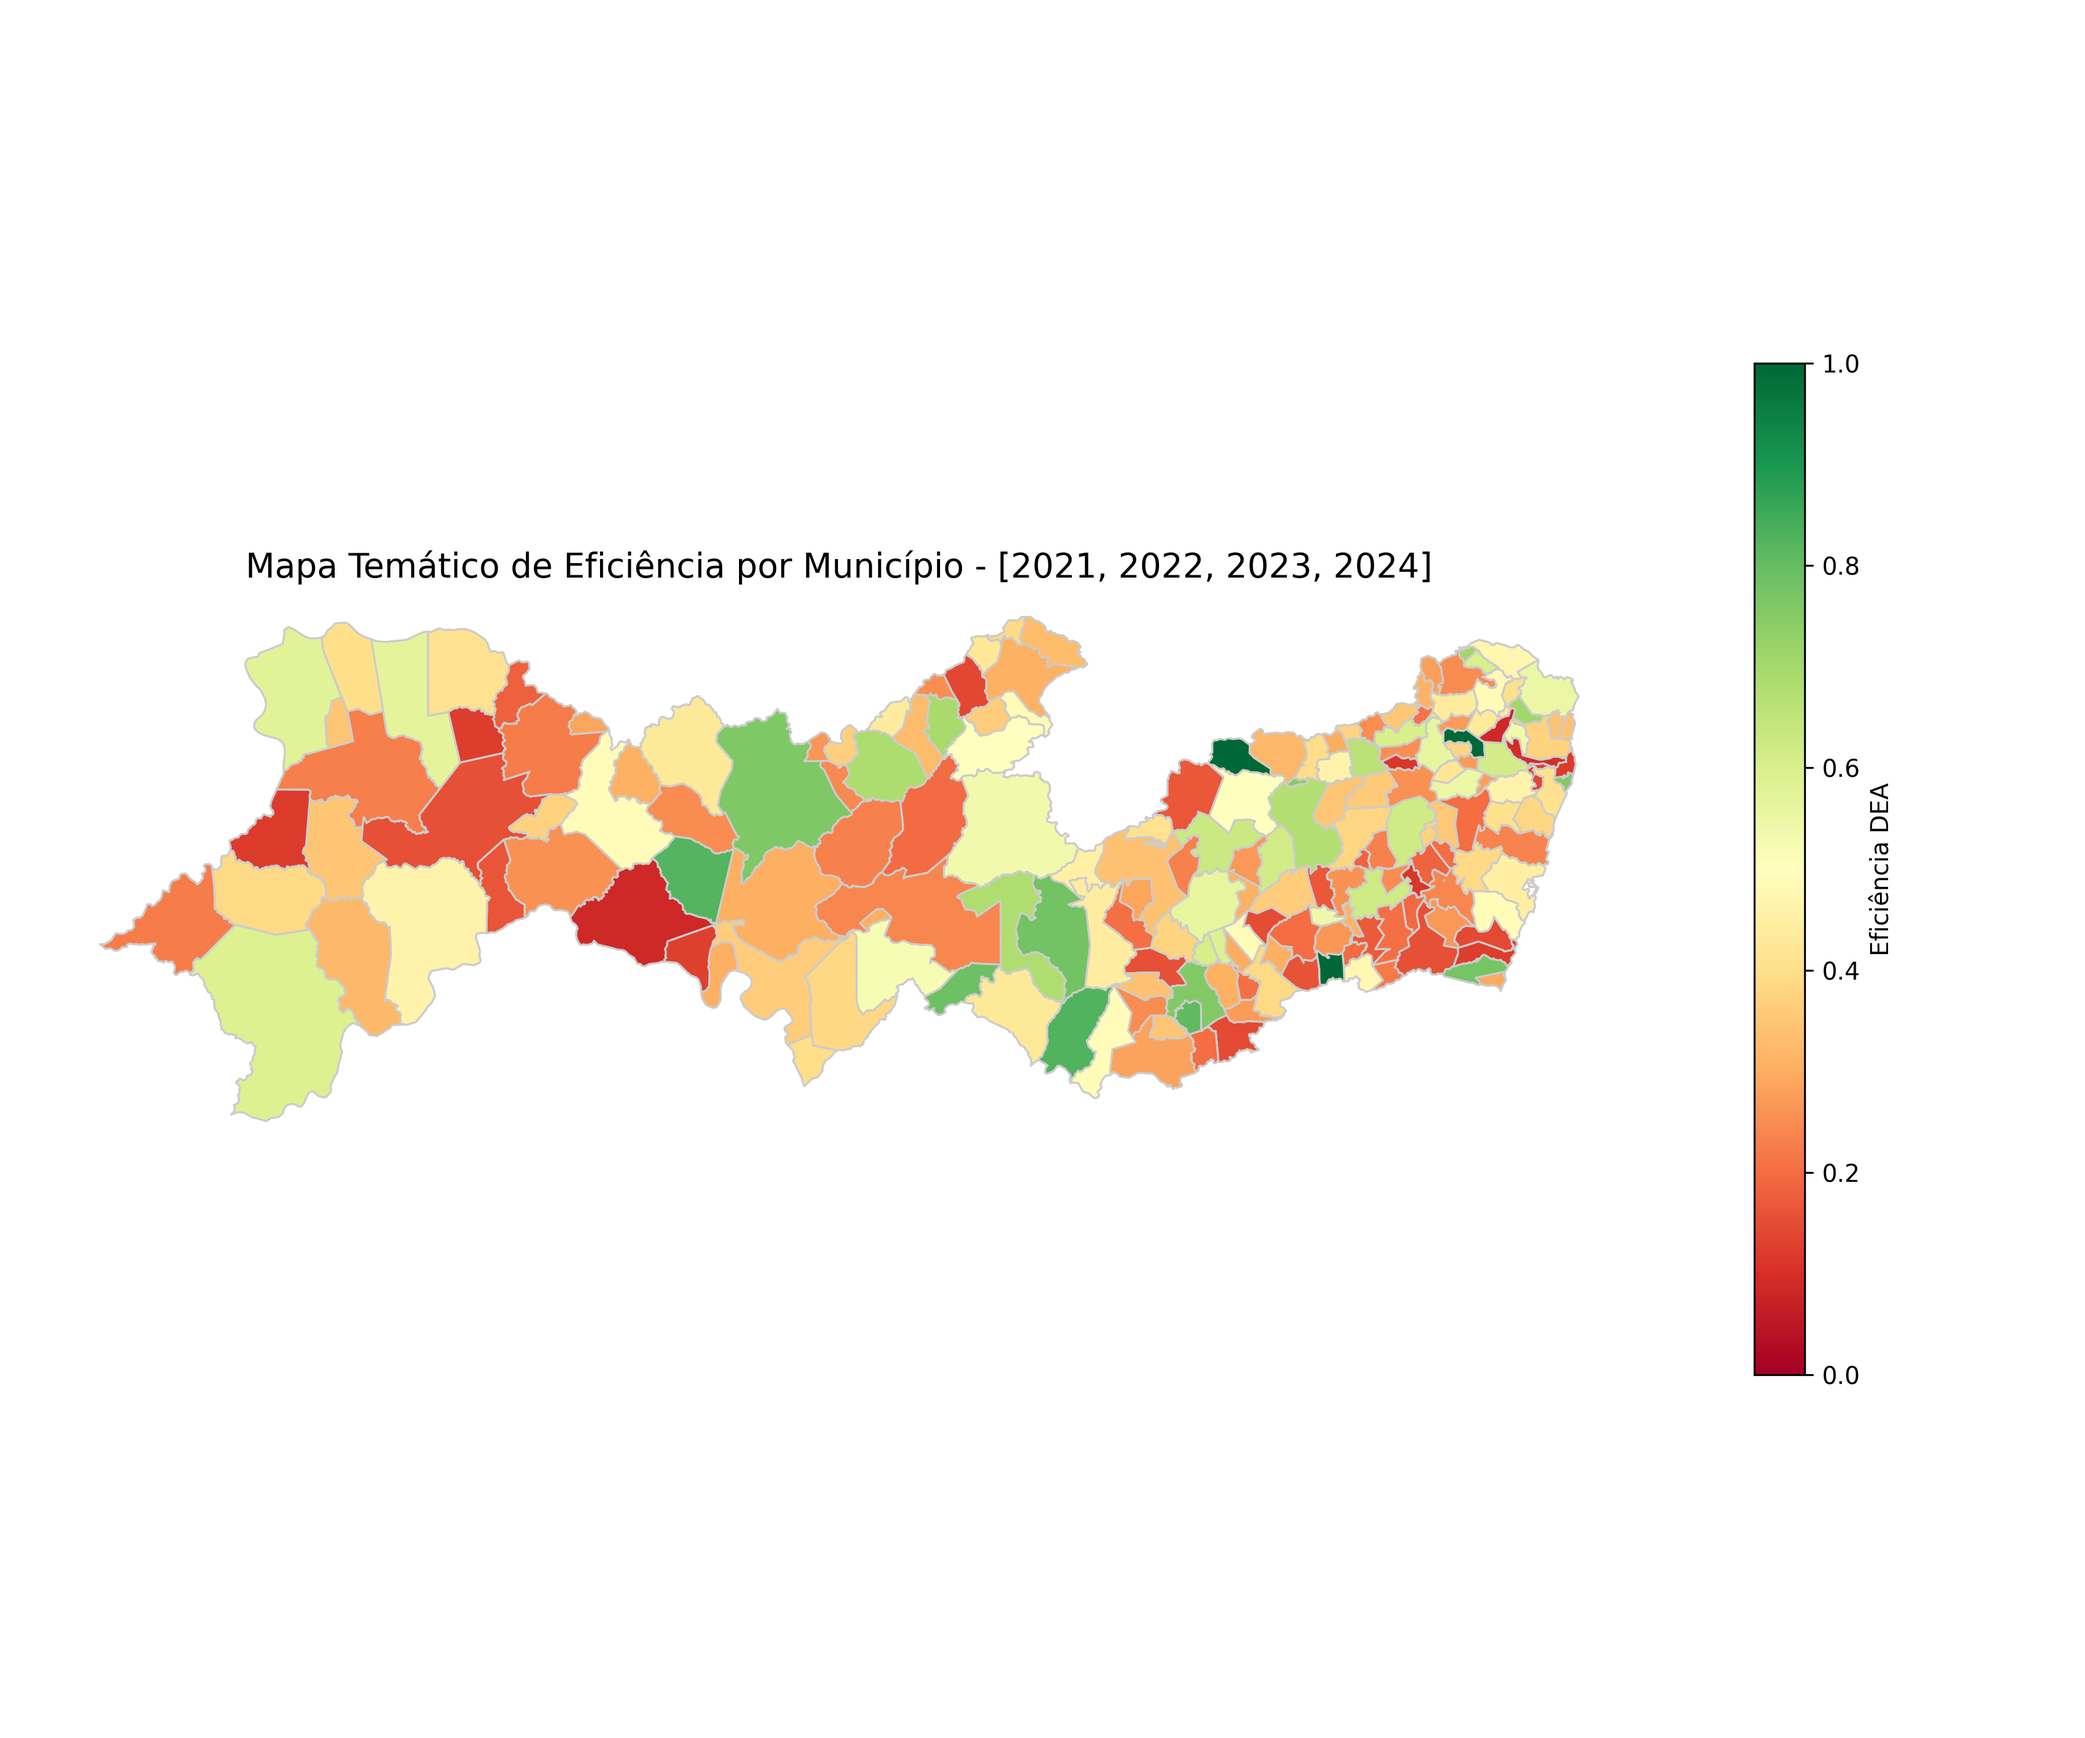
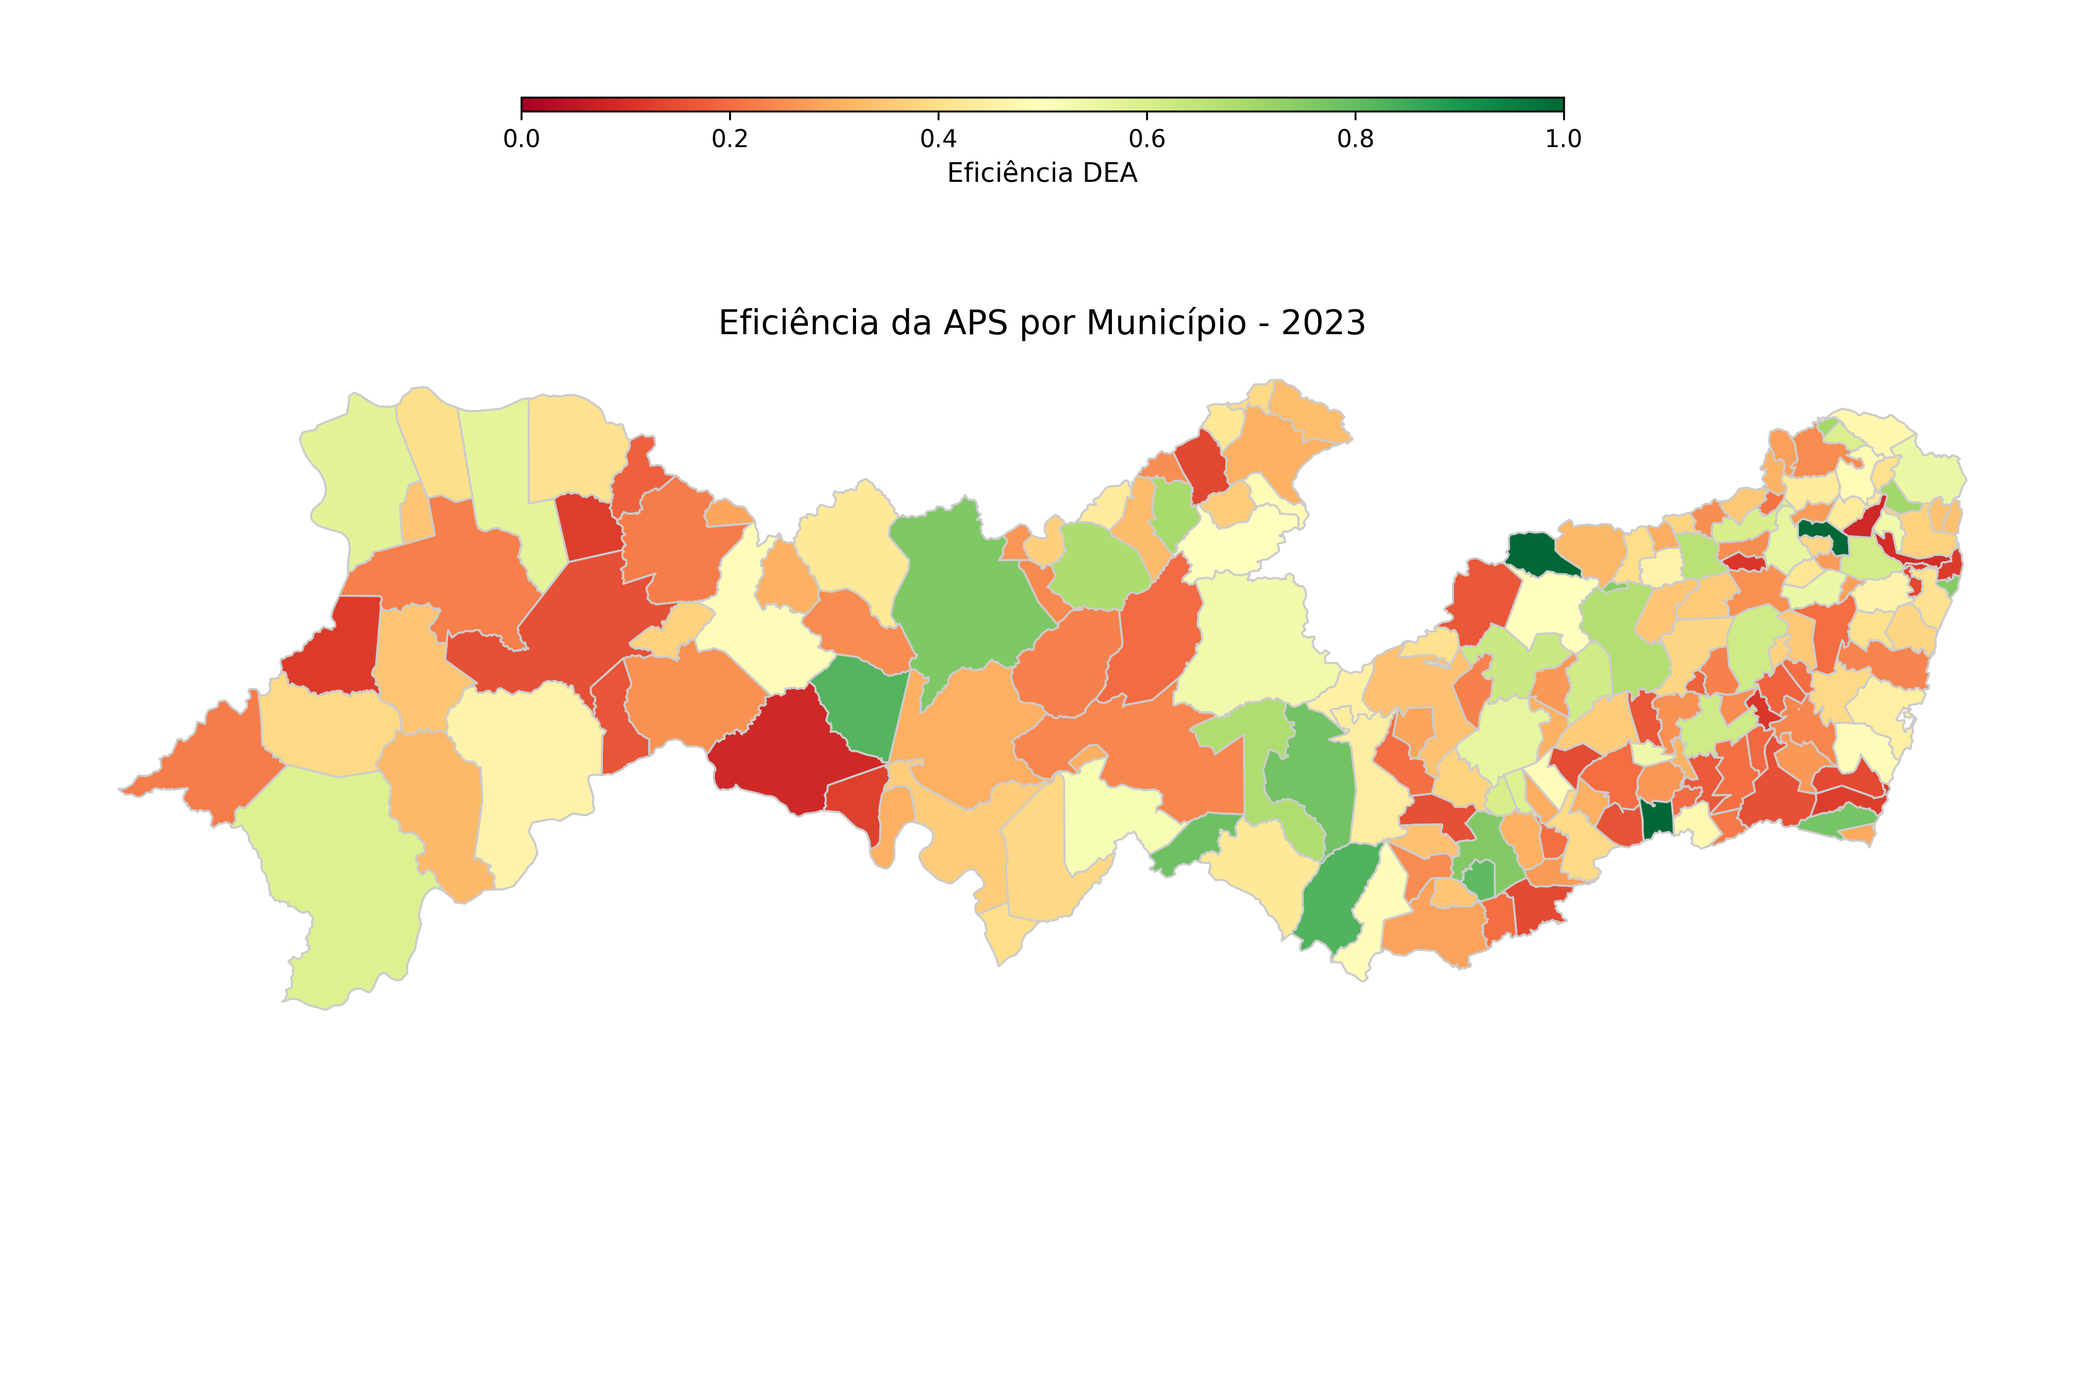
TCC: ajustes restantes

Changed region(s): [[0.0311, 0.1875, 0.9644, 0.8125], [0.2489, 0.0625, 0.7467, 0.125]]

diff --git a/map.py b/map.py
@@ -10,6 +10,8 @@ BASE_URL_CITY = "http://localhost:8080/api/city"
 GEOJSON_FILE = "resources/data/pe.json"
 OUTPUT_FILE = "resources/map/"
 
+cmap = "RdYlGn"
+vmin, vmax = 0, 1
 os.makedirs("resources/map", exist_ok=True)
 
 for year in YEAR:
@@ -33,23 +35,29 @@ for year in YEAR:
 
     merged = geo_df.merge(df_eff, left_on="name", right_on="cityName")
 
-    fig, ax = plt.subplots(1, 1, figsize=(12, 10))
+    fig, ax = plt.subplots(1, 1, figsize=(12, 8))
     merged.plot(
         column="efficiency",
         cmap="RdYlGn",
         linewidth=0.8,
         ax=ax,
         edgecolor="0.8",
-        legend=True,
+        legend=False,
         legend_kwds={"label": "Eficiência DEA", "shrink": 0.6},
         vmin=0,
         vmax=1
     )
 
-    ax.set_title(f"Mapa Temático de Eficiência por Município - {YEAR}", fontsize=14)
+    ax.set_title(f"Eficiência da APS por Município - {year}", fontsize=14)
     ax.axis("off")
 
     plt.tight_layout()
+
+    cbar_ax = fig.add_axes([0.25, 0.92, 0.5, 0.01])
+    sm = plt.cm.ScalarMappable(cmap=cmap, norm=plt.Normalize(vmin=vmin, vmax=vmax))
+    cbar = fig.colorbar(sm, cax=cbar_ax, orientation="horizontal")
+    cbar.set_label("Eficiência DEA", fontsize=11)
+
     filename = os.path.join(OUTPUT_FILE, f"map_{year}.png")
     plt.savefig(filename, dpi=300)
     print(f"✅ Mapa salvo em {OUTPUT_FILE}")
